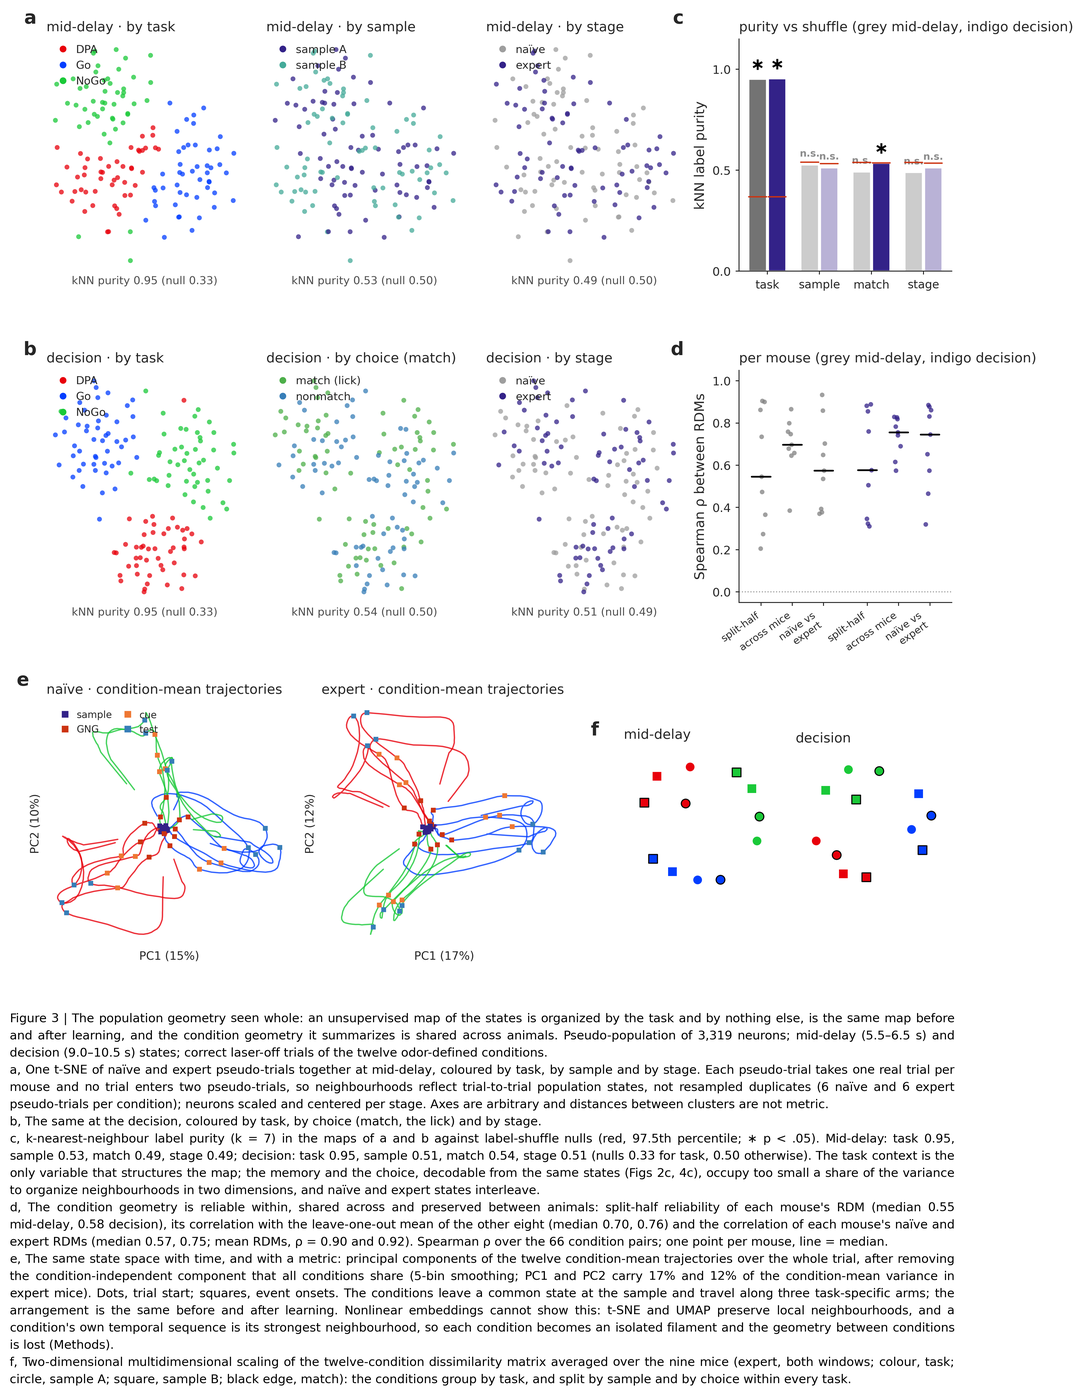
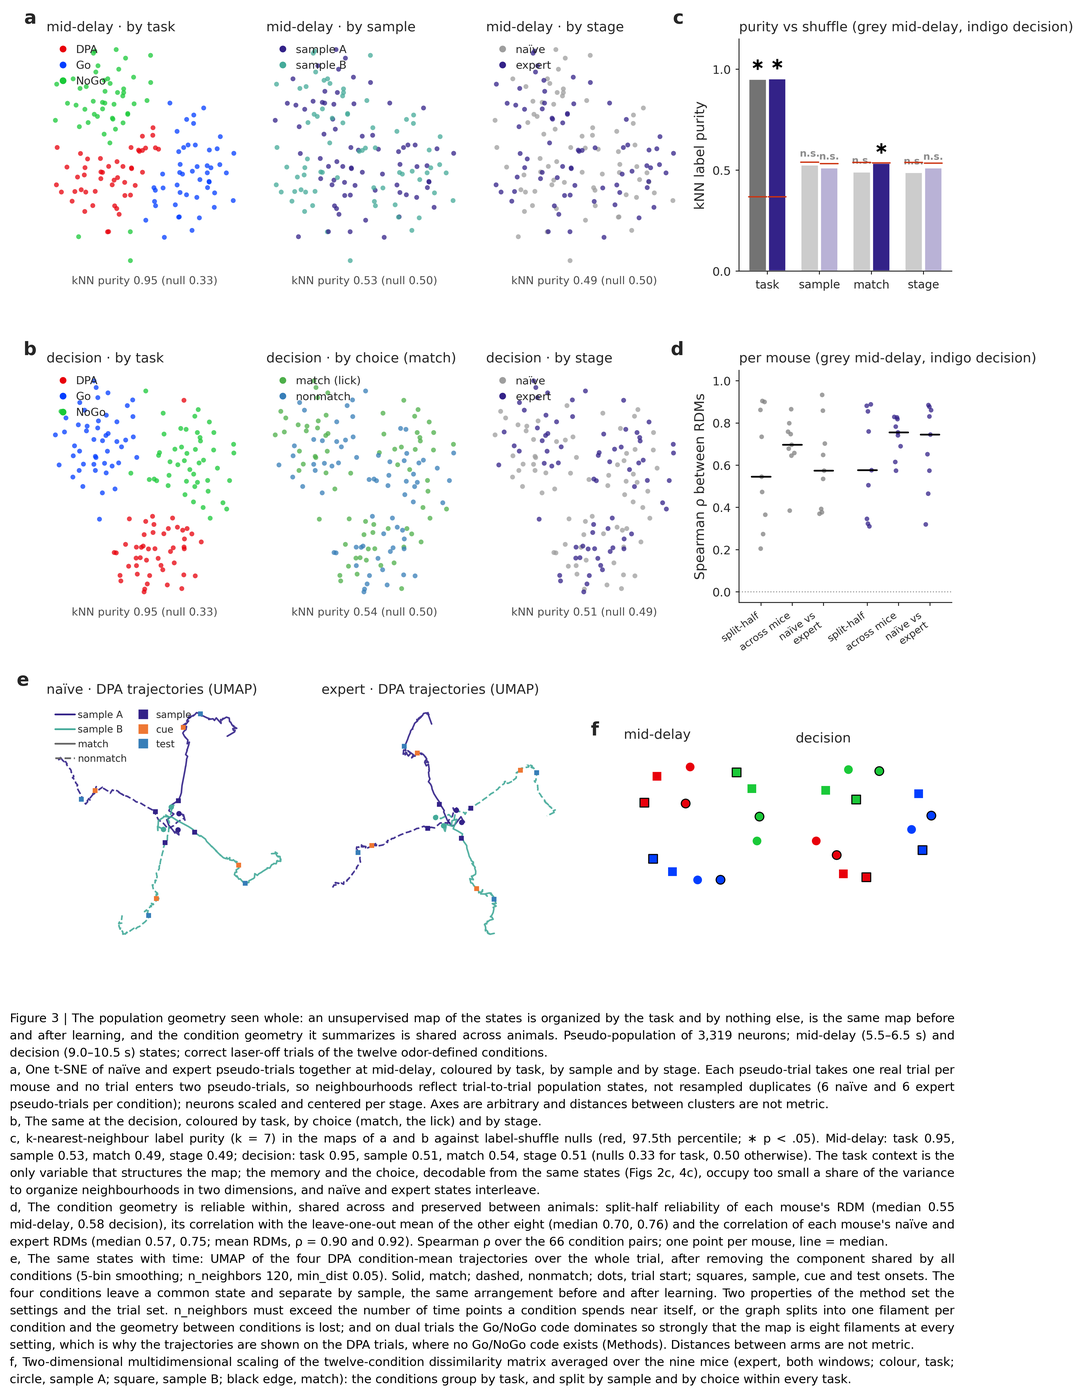
Geometry figure: per-trial-set analysis (DPA vs dual) and UMAP trajectories on DPA trials
exp_geometry_trialsets.py: within dual trials the Go/NoGo code organizes the map (kNN purity 0.97/0.94); within DPA
trials the sample still does not (0.54 p .09 mid-delay, 0.55 p .054 decision) while the choice emerges at the decision
(0.56 p .030); dual mid-delay shows a stage effect (0.56 p .016). exp_umap_traj_sweep.py: UMAP trajectories need
n_neighbors above the within-condition temporal neighbourhood (120 on 4x84 points) or the graph splits into one
filament per condition; dual trials starburst at every setting. fig_geometry_main.py panel e now draws the DPA UMAP
trajectories, naive and expert.

Claude-Session: https://claude.ai/code/session_01PzGzWMKHPqqyp4poHedntF

diff --git a/pca/exp_geometry_trialsets.py b/pca/exp_geometry_trialsets.py
@@ -1,0 +1,105 @@
+"""exp_geometry_trialsets.py — the geometry analysis of fig_geometry_main.py run WITHIN each trial set (Leon 2026-09-18):
+DPA trials only (4 conditions = sample x test) and dual trials only (8 conditions = GNG x sample x test).
+Within DPA the task-context variable is gone, so an unsupervised map can only be structured by the memory or the choice.
+Same construction as the main figure: pseudo-trials with NO trial reuse, naive+expert in one t-SNE per window, kNN purity
+(k = 7) against label-shuffle nulls, and PCA trajectories of the condition means (condition-independent ramp removed).
+"""
+import matplotlib; matplotlib.use('Agg')
+import sys, os, warnings, pickle
+warnings.filterwarnings('ignore'); sys.path.insert(0, '/home/leon/dual/'); os.chdir(os.path.dirname(os.path.abspath(__file__)))
+import numpy as np
+from sklearn.decomposition import PCA
+from sklearn.manifold import TSNE
+from sklearn.neighbors import NearestNeighbors
+import seaborn as sns, matplotlib.pyplot as plt, matplotlib.lines as mlines
+sns.set_context('notebook'); sns.set_style('ticks')
+plt.rcParams.update({'figure.dpi': 150, 'savefig.dpi': 300, 'font.family': 'sans-serif', 'font.sans-serif': ['Arial', 'DejaVu Sans'],
+                     'axes.labelsize': 8, 'axes.titlesize': 8, 'xtick.labelsize': 7, 'ytick.labelsize': 7, 'legend.fontsize': 6.5, 'svg.fonttype': 'none'})
+MICE = ['JawsM01', 'JawsM06', 'JawsM12', 'JawsM15', 'JawsM18', 'ChRM04', 'ChRM23', 'ACCM03', 'ACCM04']
+STAGES = ['Naive', 'Expert']
+SAMPC = {0: '#332288', 1: '#44AA99'}; MATCHC = {True: '#4daf4a', False: '#377eb8'}; STAGEC = {0: '0.62', 1: '#332288'}
+GNGC = {'DualGo': '#023eff', 'DualNoGo': '#1ac938'}
+K_NN = 7; NSHUF = 500
+SETS = {'DPA': [('DPA', s, te) for s in (0, 1) for te in (0, 1)],
+        'dual': [(t, s, te) for t in ['DualGo', 'DualNoGo'] for s in (0, 1) for te in (0, 1)]}
+_c = pickle.load(open('figures/pseudo/dimensionality/fits_inputs.pkl', 'rb'))
+AW = _c['AW']; VALIDIX = _c['VALIDIX']; N = _c['N']
+MOUSE, LEARN, LAS, TSK, SAMP, TESTO, PERF = (_c['L'][k] for k in ['MOUSE', 'LEARN', 'LAS', 'TSK', 'SAMP', 'TESTO', 'PERF'])
+
+def neuron_scale(stage, M):
+    sd = np.ones(N)
+    for m in MICE:
+        val = VALIDIX[(m, stage)]; tr = np.where((MOUSE == m) & (LEARN == stage) & (LAS == 0) & (PERF == 1))[0]
+        if len(tr): s = np.nanstd(M[np.ix_(tr, val)], axis=0); sd[val] = np.where(np.isfinite(s) & (s > 1e-6), s, 1.0)
+    return sd
+
+def cloud(stage, wn, conds, rng):
+    M = AW[wn]; sd = neuron_scale(stage, M)
+    P = {(ci, m): np.where((MOUSE == m) & (LEARN == stage) & (LAS == 0) & (PERF == 1) & (TSK == t) & (SAMP == s) & (TESTO == te))[0]
+         for ci, (t, s, te) in enumerate(conds) for m in MICE}
+    kp = min(len(v) for v in P.values() if len(v))
+    X = np.zeros((len(conds) * kp, N)); crow = np.repeat(np.arange(len(conds)), kp)
+    for ci in range(len(conds)):
+        for m in MICE:
+            val = VALIDIX[(m, stage)]; idx = rng.permutation(P[(ci, m)])
+            if not len(idx): continue
+            cm = np.nanmean(M[np.ix_(idx, val)], 0)
+            for j in range(kp):
+                v = M[idx[j], val]; X[ci * kp + j, val] = np.where(np.isfinite(v), v, cm)
+    X = X / sd[None, :]
+    return X - X.mean(0), crow, kp
+
+def knn_purity(E, lab, k=K_NN, nshuf=NSHUF, seed=0):
+    k = min(k, len(E) - 1); rng = np.random.RandomState(seed)
+    idx = NearestNeighbors(n_neighbors=k + 1).fit(E).kneighbors(E, return_distance=False)[:, 1:]
+    obs = float(np.mean(lab[idx] == lab[:, None])); null = np.empty(nshuf)
+    for i in range(nshuf):
+        pl = lab[rng.permutation(len(lab))]; null[i] = np.mean(pl[idx] == pl[:, None])
+    return obs, float(null.mean()), float(np.percentile(null, 97.5)), float((null >= obs).mean())
+
+OUT = {}
+fig, axs = plt.subplots(4, 4, figsize=(11.0, 11.0))
+for R, (setname, conds) in enumerate(SETS.items()):
+    for r, wn in enumerate(['md', 'decision']):
+        Xn, cn, kn = cloud('Naive', wn, conds, np.random.RandomState(1)); Xe, ce, ke = cloud('Expert', wn, conds, np.random.RandomState(2))
+        X = np.vstack([Xn, Xe]); crow = np.r_[cn, ce]; stage = np.r_[np.zeros(len(Xn), int), np.ones(len(Xe), int)]
+        Z = PCA(min(30, X.shape[0] - 1), random_state=0).fit_transform(X)
+        E = TSNE(2, perplexity=min(30, max(5, len(X) // 5)), init='pca', random_state=0, learning_rate='auto').fit_transform(Z)
+        labs = {'sample': np.array([conds[c][1] for c in crow]), 'match': np.array([conds[c][1] == conds[c][2] for c in crow]), 'stage': stage}
+        if setname == 'dual': labs['gng'] = np.array([conds[c][0] for c in crow])
+        pu = {nm: knn_purity(E, lab) for nm, lab in labs.items()}
+        OUT[(setname, wn)] = dict(purity=pu, n=len(E), kp=(kn, ke))
+        print(f'{setname:4s} {wn:8s}: n={len(E):3d} (kp {kn}/{ke})  ' + '  '.join(f'{nm} {v[0]:.2f} (null {v[1]:.2f}, p {v[3]:.3f})' for nm, v in pu.items()), flush=True)
+        order = ['gng', 'sample', 'match', 'stage'] if setname == 'dual' else ['sample', 'match', 'stage']
+        for c, nm in enumerate(order):
+            ax = axs[2 * R + r, c]; cmap = {'sample': SAMPC, 'match': MATCHC, 'stage': STAGEC, 'gng': GNGC}[nm]
+            ax.scatter(E[:, 0], E[:, 1], s=16, c=[cmap[v] for v in labs[nm]], alpha=0.8, lw=0)
+            ax.set_xticks([]); ax.set_yticks([]); [sp.set_visible(False) for sp in ax.spines.values()]
+            ax.set_title(f'{setname} · {"mid-delay" if wn == "md" else "decision"} · {nm}  purity {pu[nm][0]:.2f} (null {pu[nm][1]:.2f})', loc='left', fontsize=6.8)
+        if setname == 'DPA': axs[2 * R + r, 3].axis('off')
+fig.tight_layout(); fig.savefig('figures/pseudo/dimensionality/png/geometry_trialsets_maps.png', bbox_inches='tight'); plt.close(fig)
+
+# ── trajectories within each trial set (PCA of the set's condition means, CI removed) ──
+RES = pickle.load(open('figures/pseudo/dimensionality/results.pkl', 'rb')); CMBIN = RES['CMBIN']
+ALL12 = [(t, s, te) for t in ['DPA', 'DualGo', 'DualNoGo'] for s in (0, 1) for te in (0, 1)]
+NB = 84; SM = 5; EVENTS = [(12, 'sample', '#332288'), (27, 'GNG', '#cc3311'), (39, 'cue', '#ee7733'), (54, 'test', '#377eb8')]
+fig, axs = plt.subplots(2, 4, figsize=(11.5, 5.8))
+for R, (setname, conds) in enumerate(SETS.items()):
+    sel = [ALL12.index(cd) for cd in conds]
+    for c, stage in enumerate(STAGES):
+        CM = np.asarray(CMBIN[stage], float)[sel]; k = np.ones(SM) / SM
+        CM = np.apply_along_axis(lambda v: np.convolve(v, k, mode='same'), 2, CM); CM = CM - CM.mean(0, keepdims=True)
+        Z = CM.transpose(0, 2, 1).reshape(-1, CM.shape[1]); sd = Z.std(0); sd[sd < 1e-9] = 1.0; Z = (Z - Z.mean(0)) / sd
+        pc = PCA(4, random_state=0); Y = pc.fit_transform(Z).reshape(len(conds), NB, 4); ev = pc.explained_variance_ratio_
+        for cc, (nm, cf) in enumerate([('sample', lambda cd: SAMPC[cd[1]]), ('match', lambda cd: MATCHC[cd[1] == cd[2]])]):
+            ax = axs[R, 2 * c + cc]
+            for ci, cd in enumerate(conds):
+                tr = Y[ci]; ax.plot(tr[:, 0], tr[:, 1], '-', color=cf(cd), lw=1.2, alpha=0.85, zorder=2)
+                ax.scatter(tr[0, 0], tr[0, 1], s=16, color=cf(cd), marker='o', lw=0, zorder=4)
+                for b, _, col in EVENTS: ax.scatter(tr[b, 0], tr[b, 1], s=13, color=col, marker='s', lw=0, zorder=5)
+            ax.set_xticks([]); ax.set_yticks([]); [sp.set_visible(False) for sp in ax.spines.values()]
+            ax.set_title(f'{setname} · {"naïve" if stage == "Naive" else "expert"} · by {nm}  (PC1 {100*ev[0]:.0f}%, PC2 {100*ev[1]:.0f}%)', loc='left', fontsize=6.8)
+        print(f'{setname:4s} {stage:6s} trajectories: EV ' + ' '.join(f'{100*v:.0f}%' for v in ev), flush=True)
+fig.suptitle('Trajectories within each trial set (PCA of that set\'s condition means, CI removed); squares = sample/GNG/cue/test onsets', fontsize=8)
+fig.tight_layout(rect=(0, 0, 1, 0.96)); fig.savefig('figures/pseudo/dimensionality/png/geometry_trialsets_traj.png', bbox_inches='tight')
+pickle.dump(OUT, open('figures/pseudo/dimensionality/geometry_trialsets.pkl', 'wb')); print('saved')

diff --git a/pca/fig_geometry_main.py b/pca/fig_geometry_main.py
@@ -23,6 +23,7 @@ os.chdir(os.path.dirname(os.path.abspath(__file__)))
 import numpy as np
 from sklearn.decomposition import PCA
 from sklearn.manifold import TSNE, MDS
+import umap
 from sklearn.neighbors import NearestNeighbors
 from scipy.spatial.distance import pdist, squareform
 from scipy.stats import spearmanr
@@ -54,6 +55,8 @@ WLAB = {'md': 'mid-delay', 'decision': 'decision'}
 K_NN = 7; NSHUF = 500
 NB = 84; SM = 5                                            # trajectory bins and smoothing
 EVENTS = [(12, 'sample', '#332288'), (27, 'GNG', '#cc3311'), (39, 'cue', '#ee7733'), (54, 'test', '#377eb8')]
+DPA4 = [c for c in ALL12 if c[0] == 'DPA']
+UM_NN, UM_MD = 120, 0.05                                   # n_neighbors must exceed the within-condition temporal neighbourhood
 
 _c = pickle.load(open('figures/pseudo/dimensionality/fits_inputs.pkl', 'rb'))
 AW = _c['AW']; VALIDIX = _c['VALIDIX']; N = _c['N']
@@ -142,14 +145,16 @@ else:
         print(f'{wn}: naive-vs-expert RDM ρ per mouse median {np.median(xstage):.2f} (range {min(xstage):.2f}-{max(xstage):.2f}); mean RDMs ρ {xmean:.2f}', flush=True)
     CMBIN = pickle.load(open('figures/pseudo/dimensionality/results.pkl', 'rb'))['CMBIN']
     G['traj'] = {}
+    selDPA = [ALL12.index(c) for c in DPA4]
     for st in STAGES:
-        CM = np.asarray(CMBIN[st], float); k = np.ones(SM) / SM
+        CM = np.asarray(CMBIN[st], float)[selDPA]; k = np.ones(SM) / SM
         CM = np.apply_along_axis(lambda v: np.convolve(v, k, mode='same'), 2, CM)
-        CM = CM - CM.mean(0, keepdims=True)                     # remove the condition-independent ramp
-        Z = CM.transpose(0, 2, 1).reshape(-1, CM.shape[1]); sd = Z.std(0); sd[sd < 1e-9] = 1.0; Z = (Z - Z.mean(0)) / sd
-        pc = PCA(6, random_state=0); Y = pc.fit_transform(Z)
-        G['traj'][st] = dict(Y=Y.reshape(12, NB, 6), ev=pc.explained_variance_ratio_)
-        print(f'{st}: trajectory PCs ' + ' '.join(f'{100*v:.0f}%' for v in pc.explained_variance_ratio_[:3]), flush=True)
+        CM = CM - CM.mean(0, keepdims=True)                     # remove the component shared by all conditions
+        Z = CM.transpose(0, 2, 1).reshape(-1, CM.shape[1]); sd = Z.std(0); sd[sd < 1e-9] = 1.0
+        P = PCA(50, random_state=0).fit_transform((Z - Z.mean(0)) / sd)
+        E = umap.UMAP(n_components=2, n_neighbors=UM_NN, min_dist=UM_MD, metric='euclidean', random_state=0).fit_transform(P)
+        G['traj'][st] = dict(E=E.reshape(len(DPA4), NB, 2))
+        print(f'{st}: UMAP trajectories on DPA trials (n_neighbors {UM_NN}, min_dist {UM_MD})', flush=True)
     pickle.dump(G, open(CACHE, 'wb'))
 
 
@@ -203,23 +208,25 @@ for c, wn in enumerate(['md', 'decision']):
     ax.set_aspect('equal'); ax.set_xticks([]); ax.set_yticks([]); [sp.set_visible(False) for sp in ax.spines.values()]
     ax.set_title(f'{WLAB[wn]}', loc='left', fontsize=TITLE_FS)
     ax.margins(0.18)
-# d: unsupervised metric trajectories (PCA of the condition-mean state space, CI removed)
+# e: UMAP trajectories on DPA trials
 gst = outer[2, 0:14].subgridspec(1, 2, wspace=0.12)
 for c, st in enumerate(STAGES):
-    ax = fig.add_subplot(gst[0, c]); Y = G['traj'][st]['Y']; ev = G['traj'][st]['ev']
+    ax = fig.add_subplot(gst[0, c]); E = G['traj'][st]['E']
     if c == 0: firsts['d'] = ax
-    for ci, cd in enumerate(ALL12):
-        tr = Y[ci]
-        ax.plot(tr[:, 0], tr[:, 1], '-', color=TASKC[cd[0]], lw=1.0, alpha=0.8, zorder=2)
-        ax.scatter(tr[0, 0], tr[0, 1], s=14, color=TASKC[cd[0]], marker='o', lw=0, zorder=4)
+    for ci, cd in enumerate(DPA4):
+        tr = E[ci]; match = cd[1] == cd[2]
+        ax.plot(tr[:, 0], tr[:, 1], '-' if match else '--', color=SAMPC[cd[1]], lw=1.2, alpha=0.9, zorder=2)
+        ax.scatter(tr[0, 0], tr[0, 1], s=16, color=SAMPC[cd[1]], marker='o', lw=0, zorder=4)
         for b, nm, col in EVENTS:
-            ax.scatter(tr[b, 0], tr[b, 1], s=12, color=col, marker='s', lw=0, zorder=5)
+            if nm == 'GNG': continue
+            ax.scatter(tr[b, 0], tr[b, 1], s=13, color=col, marker='s', lw=0, zorder=5)
     ax.set_xticks([]); ax.set_yticks([]); [sp.set_visible(False) for sp in ax.spines.values()]
-    ax.set_xlabel(f'PC1 ({100*ev[0]:.0f}%)', fontsize=PS*6.8); ax.set_ylabel(f'PC2 ({100*ev[1]:.0f}%)', fontsize=PS*6.8)
-    ax.set_title(f'{"naïve" if st == "Naive" else "expert"} · condition-mean trajectories', loc='left', fontsize=TITLE_FS)
+    ax.set_title(f'{"naïve" if st == "Naive" else "expert"} · DPA trajectories (UMAP)', loc='left', fontsize=TITLE_FS)
     if c == 0:
-        ax.legend(handles=[mlines.Line2D([0], [0], marker='s', ls='none', ms=4, color=col, label=nm) for _, nm, col in EVENTS],
-                  frameon=False, loc='upper left', ncol=2, handletextpad=0.2, columnspacing=0.6, fontsize=PS*5.8)
+        ax.legend(handles=[mlines.Line2D([0], [0], color=SAMPC[x], label=f'sample {"A" if x == 0 else "B"}') for x in SAMPC] +
+                          [mlines.Line2D([0], [0], color='0.4', ls='-', label='match'), mlines.Line2D([0], [0], color='0.4', ls='--', label='nonmatch')] +
+                          [mlines.Line2D([0], [0], marker='s', ls='none', color=col, label=nm) for _, nm, col in EVENTS if nm != 'GNG'],
+                  frameon=False, loc='upper left', ncol=2, handletextpad=0.3, columnspacing=0.7, fontsize=PS*5.8)
 # e2: per-mouse RDM reliability / consistency / naive-vs-expert
 ax = fig.add_subplot(outer[1, 18:24]); firsts['e2'] = ax
 X0 = 0
@@ -260,13 +267,7 @@ CAP = [
     f'(median {np.median(rd["md"]["cons"]["Expert"]):.2f}, {np.median(rd["decision"]["cons"]["Expert"]):.2f}) and the correlation of each mouse\'s naïve and expert RDMs '
     f'(median {np.median(rd["md"]["xstage"]):.2f}, {np.median(rd["decision"]["xstage"]):.2f}; mean RDMs, ρ = {rd["md"]["xmean"]:.2f} and {rd["decision"]["xmean"]:.2f}). '
     'Spearman ρ over the 66 condition pairs; one point per mouse, line = median.',
-    'e, The same state space with time, and with a metric: principal components of the twelve condition-mean trajectories '
-    'over the whole trial, after removing the condition-independent component that all conditions share (5-bin smoothing; '
-    f'PC1 and PC2 carry {100*G["traj"]["Expert"]["ev"][0]:.0f}% and {100*G["traj"]["Expert"]["ev"][1]:.0f}% of the condition-mean variance in expert mice). Dots, trial start; squares, event onsets. '
-    'The conditions leave a common state at the sample and travel along three task-specific arms; the arrangement is the '
-    'same before and after learning. Nonlinear embeddings cannot show this: t-SNE and UMAP preserve local neighbourhoods, '
-    'and a condition\'s own temporal sequence is its strongest neighbourhood, so each condition becomes an isolated filament '
-    'and the geometry between conditions is lost (Methods).',
+    'e, The same states with time: UMAP of the four DPA condition-mean trajectories over the whole trial, after removing the component shared by all conditions (5-bin smoothing; n_neighbors 120, min_dist 0.05). Solid, match; dashed, nonmatch; dots, trial start; squares, sample, cue and test onsets. The four conditions leave a common state and separate by sample, the same arrangement before and after learning. Two properties of the method set the settings and the trial set. n_neighbors must exceed the number of time points a condition spends near itself, or the graph splits into one filament per condition and the geometry between conditions is lost; and on dual trials the Go/NoGo code dominates so strongly that the map is eight filaments at every setting, which is why the trajectories are shown on the DPA trials, where no Go/NoGo code exists (Methods). Distances between arms are not metric.',
     'f, Two-dimensional multidimensional scaling of the twelve-condition dissimilarity matrix averaged over the nine mice '
     '(expert, both windows; colour, task; circle, sample A; square, sample B; black edge, match): the conditions group by '
     'task, and split by sample and by choice within every task.',

diff --git a/pca/exp_umap_traj_dpa.py b/pca/exp_umap_traj_dpa.py
@@ -1,0 +1,53 @@
+"""exp_umap_traj_dpa.py — UMAP trajectories on DPA trials, refined settings + the naive/expert panel."""
+import matplotlib; matplotlib.use('Agg')
+import sys, os, warnings, pickle
+warnings.filterwarnings('ignore'); sys.path.insert(0, '/home/leon/dual/'); os.chdir(os.path.dirname(os.path.abspath(__file__)))
+import numpy as np
+from sklearn.decomposition import PCA
+import umap, seaborn as sns, matplotlib.pyplot as plt, matplotlib.lines as mlines
+sns.set_context('notebook'); sns.set_style('ticks')
+plt.rcParams.update({'figure.dpi': 150, 'savefig.dpi': 300, 'font.family': 'sans-serif', 'font.sans-serif': ['Arial', 'DejaVu Sans'], 'axes.titlesize': 8, 'svg.fonttype': 'none'})
+ALL12 = [(t, s, te) for t in ['DPA', 'DualGo', 'DualNoGo'] for s in (0, 1) for te in (0, 1)]
+DPA = [c for c in ALL12 if c[0] == 'DPA']
+SAMPC = {0: '#332288', 1: '#44AA99'}; MATCHC = {True: '#4daf4a', False: '#377eb8'}
+EVENTS = [(12, 'sample', '#332288'), (39, 'cue', '#ee7733'), (54, 'test', '#377eb8')]
+NB = 84; SM = 5
+CMBIN = pickle.load(open('figures/pseudo/dimensionality/results.pkl', 'rb'))['CMBIN']
+
+def prep(stage):
+    sel = [ALL12.index(c) for c in DPA]
+    CM = np.asarray(CMBIN[stage], float)[sel]; k = np.ones(SM) / SM
+    CM = np.apply_along_axis(lambda v: np.convolve(v, k, mode='same'), 2, CM); CM = CM - CM.mean(0, keepdims=True)
+    Z = CM.transpose(0, 2, 1).reshape(-1, CM.shape[1]); sd = Z.std(0); sd[sd < 1e-9] = 1.0
+    return PCA(50, random_state=0).fit_transform((Z - Z.mean(0)) / sd)
+
+def draw(ax, E, cf, ttl, lw=1.3):
+    for ci, cd in enumerate(DPA):
+        tr = E[ci * NB:(ci + 1) * NB]
+        ax.plot(tr[:, 0], tr[:, 1], '-', color=cf(cd), lw=lw, alpha=0.9, zorder=2)
+        ax.scatter(tr[0, 0], tr[0, 1], s=18, color=cf(cd), marker='o', lw=0, zorder=4)
+        for b, _, col in EVENTS: ax.scatter(tr[b, 0], tr[b, 1], s=14, color=col, marker='s', lw=0, zorder=5)
+    ax.set_xticks([]); ax.set_yticks([]); [sp.set_visible(False) for sp in ax.spines.values()]; ax.set_title(ttl, loc='left', fontsize=7)
+
+P = prep('Expert'); NN = [80, 120, 160]; MD = [0.0, 0.05, 0.15]
+fig, axs = plt.subplots(len(MD), len(NN), figsize=(3.0 * len(NN), 3.0 * len(MD)))
+for r, md in enumerate(MD):
+    for c, nn in enumerate(NN):
+        E = umap.UMAP(n_components=2, n_neighbors=nn, min_dist=md, metric='euclidean', random_state=0).fit_transform(P)
+        draw(axs[r, c], E, lambda cd: SAMPC[cd[1]], f'nn {nn}, min_dist {md}')
+        print(f'expert nn={nn} md={md}', flush=True)
+fig.suptitle('UMAP trajectories, DPA trials, expert, CI removed — refined settings (colour = sample)', fontsize=8)
+fig.tight_layout(rect=(0, 0, 1, 0.95)); fig.savefig('figures/pseudo/dimensionality/png/umap_traj_dpa_refine.png', bbox_inches='tight'); plt.close(fig)
+
+NNF, MDF = 120, 0.05
+fig, axs = plt.subplots(2, 2, figsize=(7.0, 6.8))
+for r, stage in enumerate(['Naive', 'Expert']):
+    E = umap.UMAP(n_components=2, n_neighbors=NNF, min_dist=MDF, metric='euclidean', random_state=0).fit_transform(prep(stage))
+    for c, (nm, cf) in enumerate([('sample', lambda cd: SAMPC[cd[1]]), ('match (choice)', lambda cd: MATCHC[cd[1] == cd[2]])]):
+        draw(axs[r, c], E, cf, f'{"naïve" if stage == "Naive" else "expert"} · by {nm}')
+hs = [mlines.Line2D([0], [0], color=SAMPC[s], label=f'sample {"A" if s == 0 else "B"}') for s in SAMPC] + \
+     [mlines.Line2D([0], [0], color=MATCHC[m], label='match (lick)' if m else 'nonmatch') for m in MATCHC] + \
+     [mlines.Line2D([0], [0], marker='s', ls='none', color=c, label=n) for _, n, c in EVENTS]
+fig.legend(handles=hs, loc='lower center', ncol=4, frameon=False, fontsize=6.5)
+fig.suptitle(f'UMAP trajectories, DPA trials (4 condition means x 84 bins, CI removed; n_neighbors {NNF}, min_dist {MDF})', fontsize=8)
+fig.tight_layout(rect=(0, 0.06, 1, 0.95)); fig.savefig('figures/pseudo/dimensionality/png/umap_traj_dpa_final.png', bbox_inches='tight'); print('saved')

diff --git a/pca/exp_umap_traj_sweep.py b/pca/exp_umap_traj_sweep.py
@@ -1,0 +1,53 @@
+"""exp_umap_traj_sweep.py — UMAP trajectories, parameter sweep (Leon 2026-09-18: "I would like the UMAP trajectories").
+The earlier starburst has a cause: with 84 time points per condition, a point's nearest neighbours are its own temporal
+neighbours, so the UMAP graph splits into one chain per condition. The fix to test is n_neighbors LARGER than the
+within-condition temporal neighbourhood, so the graph must connect conditions; also CI removal (the shared ramp) and
+metric. Run per trial set: DPA (4 conditions x 84 bins) and dual (8 x 84).
+"""
+import matplotlib; matplotlib.use('Agg')
+import sys, os, warnings, pickle
+warnings.filterwarnings('ignore'); sys.path.insert(0, '/home/leon/dual/'); os.chdir(os.path.dirname(os.path.abspath(__file__)))
+import numpy as np
+from sklearn.decomposition import PCA
+import umap, seaborn as sns, matplotlib.pyplot as plt, matplotlib.lines as mlines
+sns.set_context('notebook'); sns.set_style('ticks')
+plt.rcParams.update({'figure.dpi': 150, 'savefig.dpi': 300, 'font.family': 'sans-serif', 'font.sans-serif': ['Arial', 'DejaVu Sans'],
+                     'axes.titlesize': 8, 'svg.fonttype': 'none'})
+ALL12 = [(t, s, te) for t in ['DPA', 'DualGo', 'DualNoGo'] for s in (0, 1) for te in (0, 1)]
+SETS = {'DPA': [c for c in ALL12 if c[0] == 'DPA'], 'dual': [c for c in ALL12 if c[0] != 'DPA']}
+SAMPC = {0: '#332288', 1: '#44AA99'}; GNGC = {'DualGo': '#023eff', 'DualNoGo': '#1ac938', 'DPA': '#e8000b'}
+EVENTS = [(12, 'sample', '#332288'), (27, 'GNG', '#cc3311'), (39, 'cue', '#ee7733'), (54, 'test', '#377eb8')]
+NB = 84; SM = 5
+RES = pickle.load(open('figures/pseudo/dimensionality/results.pkl', 'rb')); CMBIN = RES['CMBIN']
+
+def prep(stage, conds, ci_removed=True):
+    sel = [ALL12.index(c) for c in conds]
+    CM = np.asarray(CMBIN[stage], float)[sel]; k = np.ones(SM) / SM
+    CM = np.apply_along_axis(lambda v: np.convolve(v, k, mode='same'), 2, CM)
+    if ci_removed: CM = CM - CM.mean(0, keepdims=True)
+    Z = CM.transpose(0, 2, 1).reshape(-1, CM.shape[1]); sd = Z.std(0); sd[sd < 1e-9] = 1.0
+    return PCA(50, random_state=0).fit_transform((Z - Z.mean(0)) / sd)
+
+def draw(ax, E, conds, cf, ttl):
+    for ci, cd in enumerate(conds):
+        tr = E[ci * NB:(ci + 1) * NB]
+        ax.plot(tr[:, 0], tr[:, 1], '-', color=cf(cd), lw=1.1, alpha=0.85, zorder=2)
+        ax.scatter(tr[0, 0], tr[0, 1], s=15, color=cf(cd), marker='o', lw=0, zorder=4)
+        for b, _, col in EVENTS: ax.scatter(tr[b, 0], tr[b, 1], s=12, color=col, marker='s', lw=0, zorder=5)
+    ax.set_xticks([]); ax.set_yticks([]); [sp.set_visible(False) for sp in ax.spines.values()]
+    ax.set_title(ttl, loc='left', fontsize=7)
+
+NN = [15, 50, 120, 250]; MD = [0.1, 0.6]
+for setname, conds in SETS.items():
+    P = prep('Expert', conds)
+    fig, axs = plt.subplots(len(MD), len(NN), figsize=(3.0 * len(NN), 3.0 * len(MD)))
+    for r, md in enumerate(MD):
+        for c, nn in enumerate(NN):
+            nn_use = min(nn, len(P) - 1)
+            E = umap.UMAP(n_components=2, n_neighbors=nn_use, min_dist=md, metric='euclidean', random_state=0).fit_transform(P)
+            cf = (lambda cd: SAMPC[cd[1]]) if setname == 'DPA' else (lambda cd: GNGC[cd[0]])
+            draw(axs[r, c], E, conds, cf, f'n_neighbors {nn_use}, min_dist {md}')
+            print(f'{setname} expert nn={nn_use} md={md}: done', flush=True)
+    fig.suptitle(f'UMAP trajectories, {setname} trials, expert, CI removed ({len(conds)} conditions x 84 bins = {len(P)} points; colour = ' + ('sample' if setname == 'DPA' else 'Go/NoGo') + ')', fontsize=8)
+    fig.tight_layout(rect=(0, 0, 1, 0.95)); fig.savefig(f'figures/pseudo/dimensionality/png/umap_traj_sweep_{setname}.png', bbox_inches='tight'); plt.close(fig)
+print('saved sweeps')
